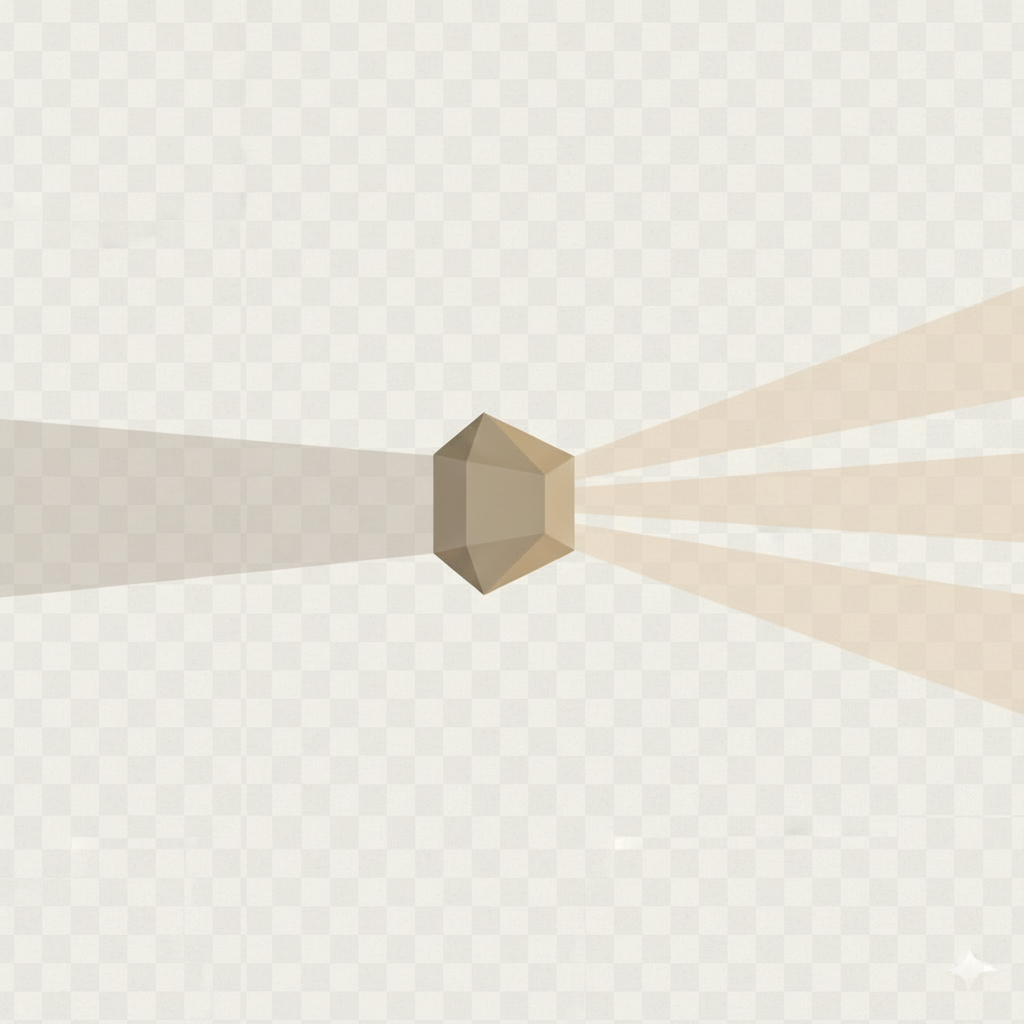
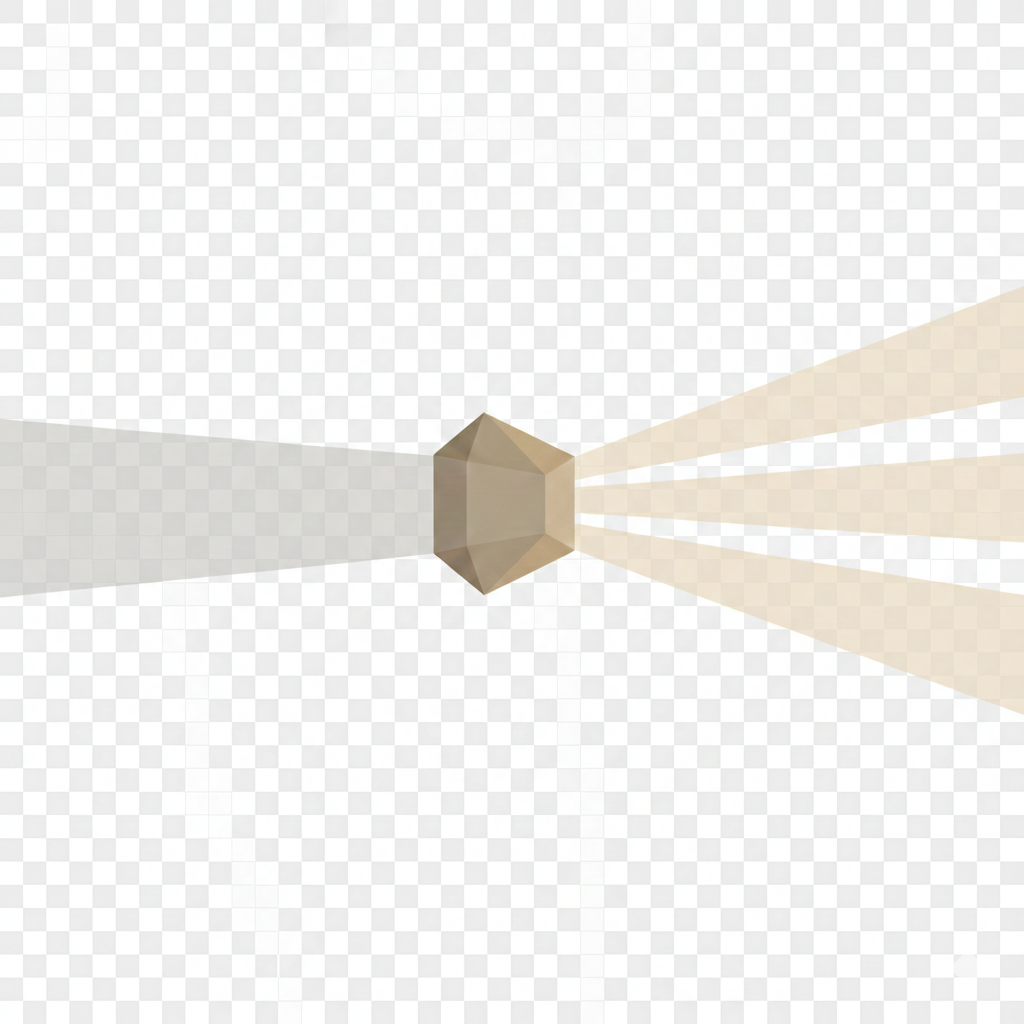
Changes

diff --git a/src/screens/WelcomeScreen.tsx b/src/screens/WelcomeScreen.tsx
@@ -28,50 +28,12 @@ const WelcomeScreen = ({
         animate={{ opacity: 1, scale: 1 }} 
         transition={{ duration: 0.8, delay: 0.2 }}
       >
-        <motion.div 
-          className="relative"
-          animate={{ y: [0, -8, 0] }}
-          transition={{ duration: 3, repeat: Infinity, ease: "easeInOut" }}
-        >
-          {/* Crystal prism image */}
-          <img 
-            src={crystalPrism} 
-            alt="Crystal prism with rays" 
-            className="w-96 h-auto"
-          />
-          
-          {/* Animated rays overlay on the right */}
-          <div className="absolute inset-0 overflow-hidden pointer-events-none">
-            {/* Ray 1 */}
-            <motion.div 
-              className="absolute right-0 top-1/2 w-32 h-[2px] bg-gradient-to-r from-transparent via-[#D4C9B8]/60 to-transparent origin-left"
-              style={{ transform: 'translateY(-12px) rotate(-8deg)', right: '5%' }}
-              animate={{ opacity: [0.3, 0.8, 0.3], scaleX: [0.9, 1.1, 0.9] }}
-              transition={{ duration: 2, repeat: Infinity, ease: "easeInOut" }}
-            />
-            {/* Ray 2 */}
-            <motion.div 
-              className="absolute right-0 top-1/2 w-36 h-[3px] bg-gradient-to-r from-transparent via-[#C9BDA8]/50 to-transparent origin-left"
-              style={{ transform: 'translateY(-4px) rotate(-3deg)', right: '3%' }}
-              animate={{ opacity: [0.4, 0.9, 0.4], scaleX: [0.95, 1.15, 0.95] }}
-              transition={{ duration: 2.3, repeat: Infinity, ease: "easeInOut", delay: 0.3 }}
-            />
-            {/* Ray 3 */}
-            <motion.div 
-              className="absolute right-0 top-1/2 w-40 h-[2px] bg-gradient-to-r from-transparent via-[#E0D5C4]/70 to-transparent origin-left"
-              style={{ transform: 'translateY(4px) rotate(2deg)', right: '2%' }}
-              animate={{ opacity: [0.5, 1, 0.5], scaleX: [1, 1.2, 1] }}
-              transition={{ duration: 1.8, repeat: Infinity, ease: "easeInOut", delay: 0.6 }}
-            />
-            {/* Ray 4 */}
-            <motion.div 
-              className="absolute right-0 top-1/2 w-32 h-[2px] bg-gradient-to-r from-transparent via-[#D9CDBB]/55 to-transparent origin-left"
-              style={{ transform: 'translateY(12px) rotate(7deg)', right: '4%' }}
-              animate={{ opacity: [0.35, 0.85, 0.35], scaleX: [0.92, 1.12, 0.92] }}
-              transition={{ duration: 2.5, repeat: Infinity, ease: "easeInOut", delay: 0.9 }}
-            />
-          </div>
-        </motion.div>
+        {/* Crystal prism image - rays are part of the image */}
+        <img 
+          src={crystalPrism} 
+          alt="Crystal prism with rays" 
+          className="w-full max-w-md h-auto"
+        />
       </motion.div>
 
       {/* Bottom content */}
